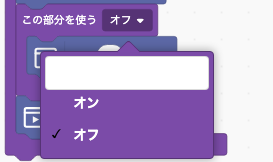
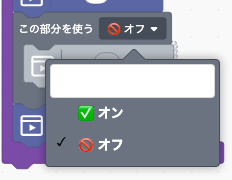
docs(dsl4): illustrate disabled section scope and emoji menu

diff --git a/docs/dsl-author-guides/dsl-4.0-block-script-conversion-guide.md b/docs/dsl-author-guides/dsl-4.0-block-script-conversion-guide.md
@@ -421,6 +421,31 @@ npx --no-install turbowarp-kamishibai author-block-dsl \
 そのベースの再生ランタイムは更新されません。rc.25のベースを使ってください。
 file素材やScratchスプライトがある作品は、前節の素材準備の条件も適用します。
 
+<a id="section-appearance-cli"></a>
+
+### グレー表示・絵文字メニューを使う
+
+「✅ オン／🚫 オフ」、専用グレー、オフ範囲の灰色・斜線背景は、
+[本体PR #909](https://github.com/kubohiroya/turbowarp-kamishibai-app/pull/909)で追加した表示です。
+公開npm版rc.25には未収録なので、図と同じ表示で生成する場合は、この変更を含むCLIを別フォルダーへ用意します。
+Node.js 24.0.0以上とpnpmを使い、次のcommitへ固定します。
+
+```sh
+git clone https://github.com/kubohiroya/turbowarp-kamishibai-app.git kamishibai-section-cli
+git -C kamishibai-section-cli checkout --detach 1c11ceffdaf880a8bbd31bd355d9c94363223354
+pnpm --dir kamishibai-section-cli install --frozen-lockfile
+pnpm --dir kamishibai-section-cli run build:lib
+
+node kamishibai-section-cli/bin/turbowarp-kamishibai.mjs author-block-dsl \
+  --input story.k4.yml --base section-base.sb3 --output section-blocks.sb3 --block-sections true
+```
+
+公開rc.25のランタイムで直接再生でき、保存値や復元用コメントの形式も同じです。
+書き戻したYAMLから再生成するときも、`author-block-dsl`はこの表示改善版CLIで実行してください。
+以前のCLIで生成すると、オン／オフの意味を保ったまま以前の表示になります。
+エディターの`Scratch.gui.getBlockly()` APIがない場合は、専用色と絵文字セレクタを表示し、
+オフ範囲の灰色・斜線装飾は追加しません。
+
 ### 編集・保存・書き戻し・再生成
 
 1. `section-blocks.sb3`をEditorで開き、命令列または定義列を囲み、オン／オフを選びます。
